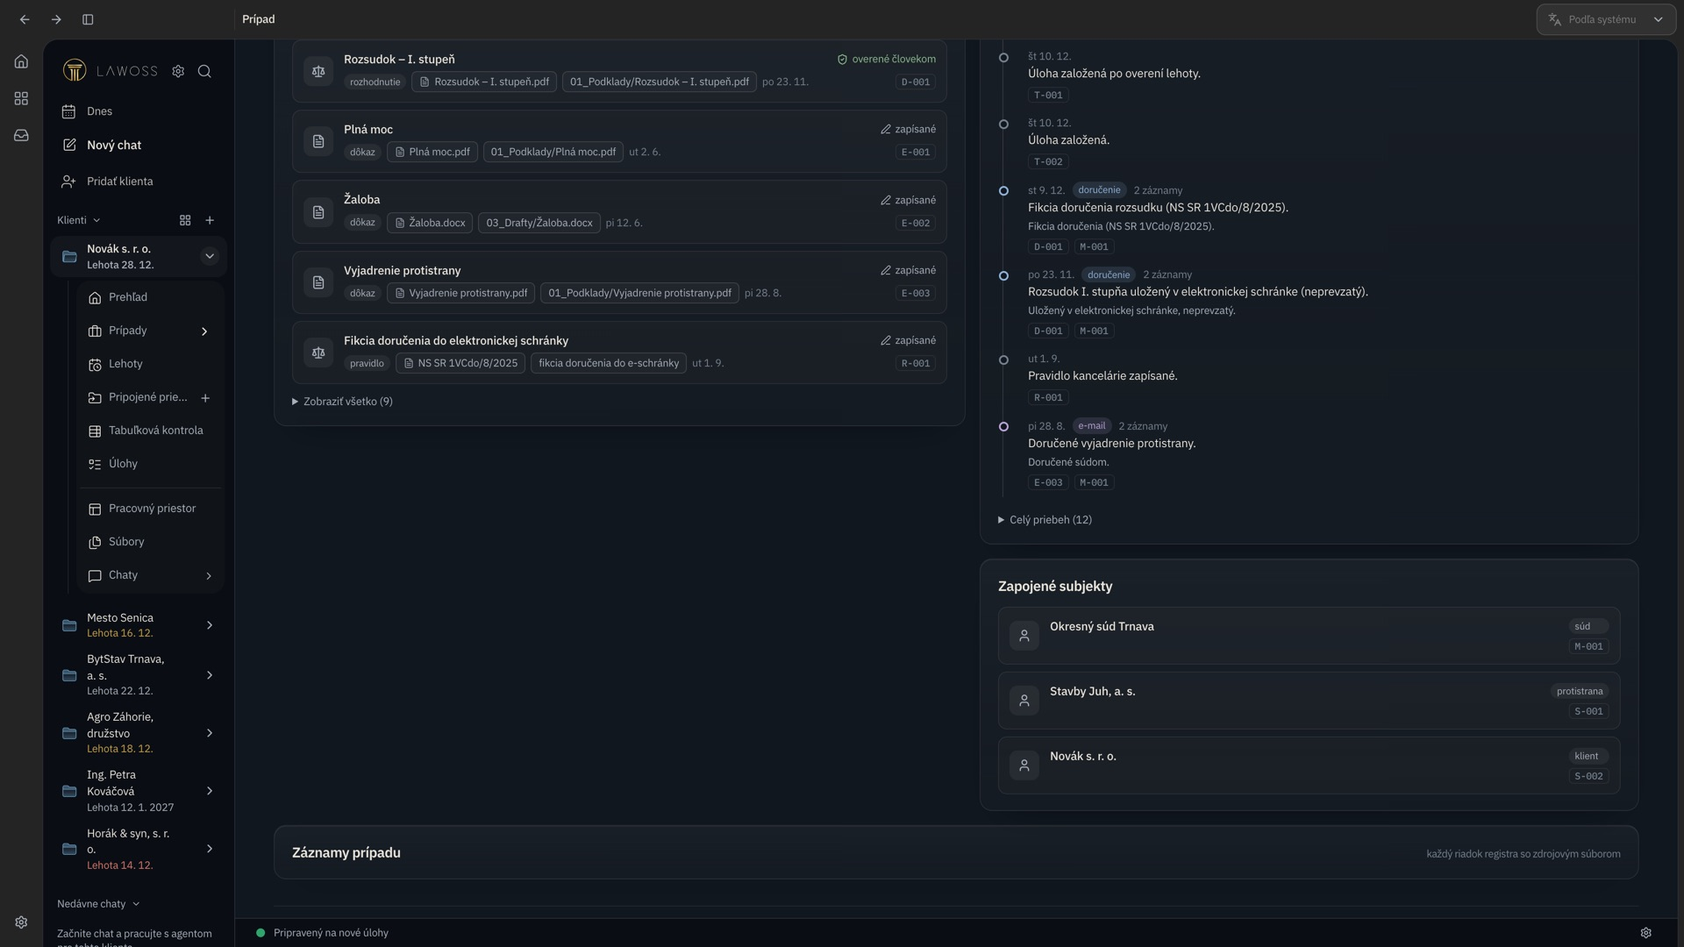
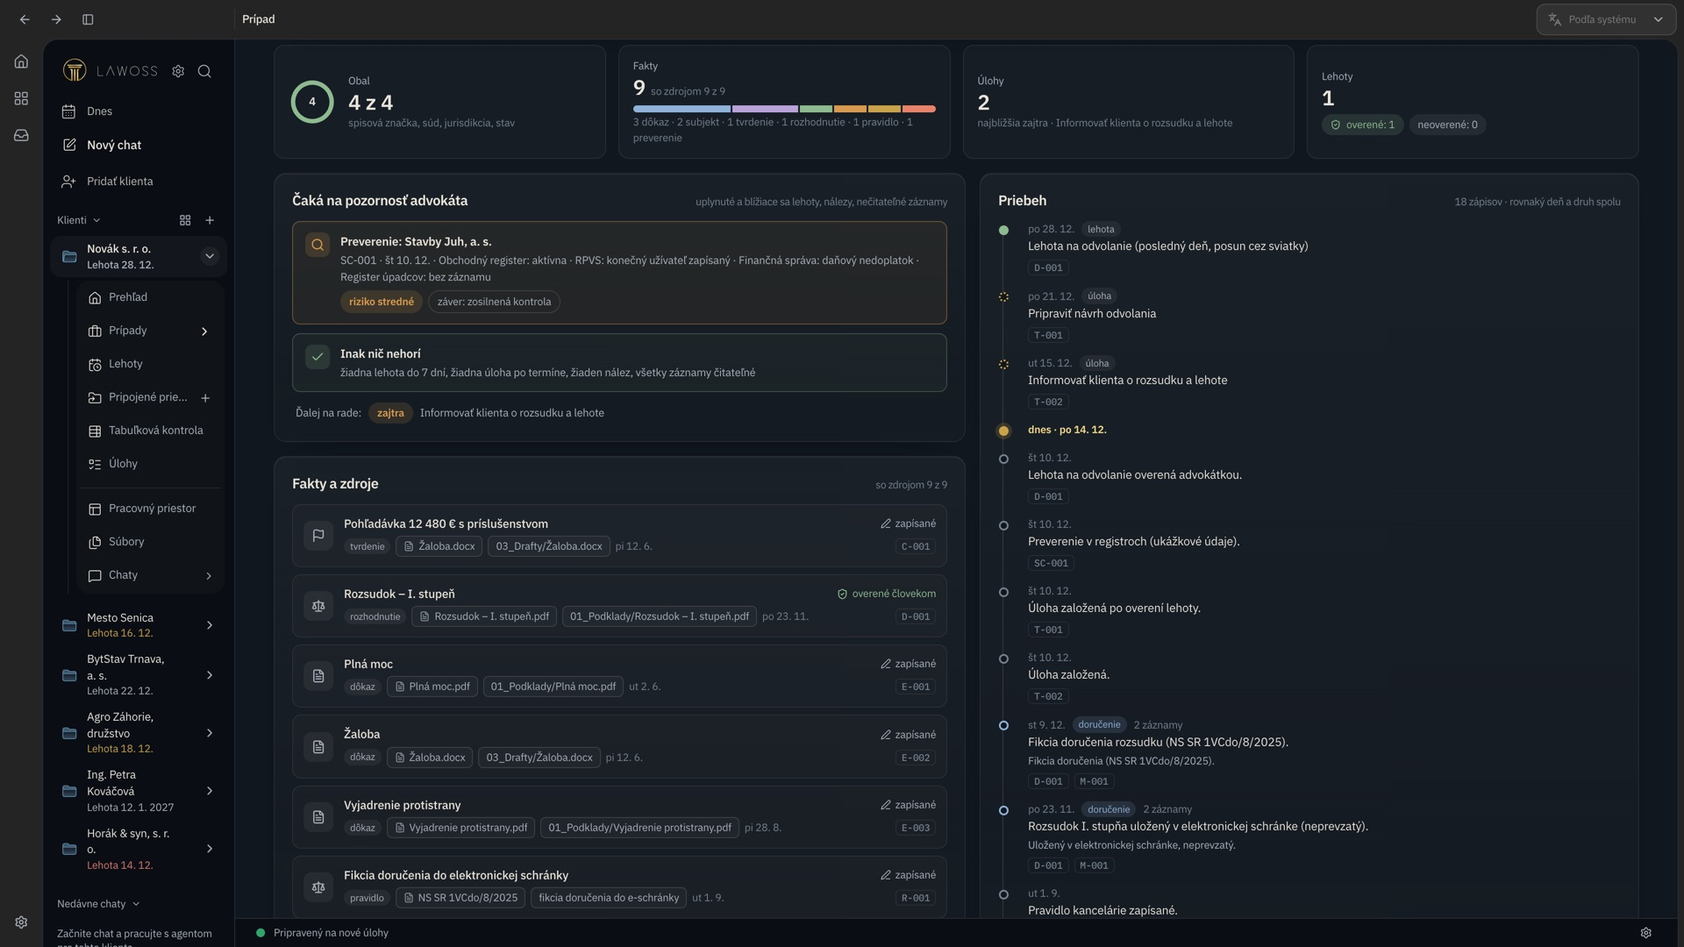
fix: poctivé stavy v Prehľade praxe a detaile prípadu
- Neplatný dátum lehoty alebo termínu úlohy je upozornenie aj stav karty,
  nikdy ticho nezmizne; lehota kancelárie nie je termín prípadu.
- Zelené „nič nehorí“ len pri úplnom čítaní (bez truncated, problémov
  a s úplným pokrytím); inak upozornenie na neúplné čítanie.
- Riadok lehoty v pozornosti a v registri ukazuje potvrdenie tejto
  lehoty, nie overenie celého záznamu.
- Lehota a preverenie zo zdieľaného súboru sú jedno upozornenie a jeden
  štítok v kalendári; upozornení najviac šesť, zvyšok odkazom do registra.
- Testy pre neplatný dátum, čiastočné čítanie, overenie pred úpravou
  záznamu a lehotu zdieľanú dvoma prípadmi; nové snímky.

diff --git a/apps/app/src/lawoss/domains/overview-model.ts b/apps/app/src/lawoss/domains/overview-model.ts
@@ -3,7 +3,7 @@
  * kalendár týždňov, upozornenia, karty prípadov a zoskupená história. Berú iba to, čo prečítal read-model;
  * nič nedopočítavajú (žiadne lehoty z predpisov, žiadne sviatky), víkend je len deň v týždni.
  */
-import { addDays, deadlineKey, deadlineTier, ISO_DAY, recordKey, taskDue, type MatterInput, type MatterOverview, type UpcomingDeadline } from "../../../../../lawoss/okf/read";
+import { addDays, deadlineKey, deadlineTier, ISO_DAY, isOfficeFile, recordKey, taskDue, type MatterInput, type MatterOverview, type UpcomingDeadline } from "../../../../../lawoss/okf/read";
 import { screeningNeedsAttention, screenings, type CockpitEvent, type CockpitScreening } from "../../../../../lawoss/okf/cockpit";
 import { buildMatterViews } from "../../../../../lawoss/okf/views";
 import { cardStatus, type CardStatus } from "../lite/client-cards";
@@ -70,25 +70,58 @@ export function practiceTasks(matters: readonly MatterOverview[], todayIso: stri
 
 type OverviewSource = { matters: readonly MatterOverview[]; inputs: readonly MatterInput[]; upcomingDeadlines: readonly UpcomingDeadline[]; overdue: readonly UpcomingDeadline[] };
 
+/** Lehota zo zdieľaného súboru (klient, kancelária) je jedna lehota, aj keď ju prehľad nesie pri každom prípade. */
+export function uniqueDeadlines(deadlines: readonly UpcomingDeadline[]): UpcomingDeadline[] {
+  const seen = new Set<string>();
+  return deadlines.filter((d) => {
+    const key = deadlineKey(d);
+    if (seen.has(key)) return false;
+    seen.add(key);
+    return true;
+  });
+}
+
 export type PracticeAlert =
   | { kind: "overdueDeadlines"; count: number }
   | { kind: "deadline"; deadline: UpcomingDeadline; client?: string }
+  /** Dátum lehoty alebo termín úlohy, ktorý nie je RRRR-MM-DD: nikdy sa ticho nezahodí, ide na overenie. */
+  | { kind: "invalidDate"; key: string; title: string; raw: string; task: boolean; matter: Pick<MatterOverview, "path" | "title">; client?: string }
   | { kind: "task"; task: PracticeTask; client?: string }
   | { kind: "screening"; screening: CockpitScreening; matter: Pick<MatterOverview, "path" | "title">; client?: string };
 
-/** Upozornenia praxe v poradí naliehavosti: lehoty po termíne, lehoty dnes a zajtra, úlohy po termíne, rizikové preverenia. */
+/**
+ * Upozornenia praxe v poradí naliehavosti: lehoty po termíne, lehoty dnes a zajtra, neplatné dátumy, úlohy po termíne,
+ * rizikové preverenia. Záznam zo zdieľaného súboru (klient, kancelária) je jedno upozornenie, nie jedno za prípad.
+ */
 export function practiceAlerts(data: OverviewSource, todayIso: string): PracticeAlert[] {
   const client = clientNames(data);
   const overdue = new Set(data.overdue.map(deadlineKey)).size;
-  const due = data.upcomingDeadlines.filter((d) => !d.invalid && deadlineTier(d.date, todayIso) === "today");
+  const deadlines = uniqueDeadlines(data.upcomingDeadlines);
+  const due = deadlines.filter((d) => !d.invalid && deadlineTier(d.date, todayIso) === "today");
+  const seenTasks = new Set<string>();
+  const invalid = [
+    ...deadlines.filter((d) => d.invalid).map((d) => ({ key: `d:${deadlineKey(d)}`, title: d.title, raw: d.raw ?? d.date, task: false, matter: { path: d.matter.path, title: d.matter.title } })),
+    ...data.matters.flatMap((m) => m.openTasks.filter((task) => task.invalid).flatMap((task) => {
+      const key = recordKey(m.path, task);
+      if (seenTasks.has(key)) return [];
+      seenTasks.add(key);
+      return [{ key: `t:${key}`, title: task.title, raw: task.due ?? "", task: true, matter: { path: m.path, title: m.title } }];
+    })),
+  ];
   const tasks = practiceTasks(data.matters, todayIso).filter((task) => task.overdue);
+  const seenScreenings = new Set<string>();
   const risky = data.matters.flatMap((m) => {
     const input = data.inputs.find((i) => i.path === m.path);
-    return input ? screenings(input).filter(screeningNeedsAttention).map((screening) => ({ screening, matter: { path: m.path, title: m.title } })) : [];
+    return input ? screenings(input).filter(screeningNeedsAttention).filter((screening) => {
+      if (seenScreenings.has(screening.file + screening.id)) return false;
+      seenScreenings.add(screening.file + screening.id);
+      return true;
+    }).map((screening) => ({ screening, matter: { path: m.path, title: m.title } })) : [];
   });
   return [
     ...(overdue > 0 ? [{ kind: "overdueDeadlines" as const, count: overdue }] : []),
     ...due.map((deadline) => ({ kind: "deadline" as const, deadline, ...named(client(deadline.matter.path)) })),
+    ...invalid.map((item) => ({ kind: "invalidDate" as const, ...item, ...named(client(item.matter.path)) })),
     ...tasks.map((task) => ({ kind: "task" as const, task, ...named(client(task.matter.path)) })),
     ...risky.map((item) => ({ kind: "screening" as const, ...item, ...named(client(item.matter.path)) })),
   ];
@@ -109,8 +142,10 @@ function clientNames(data: Pick<OverviewSource, "matters" | "inputs">): (path: s
 export type MatterCard = {
   matter: MatterOverview;
   client?: string;
-  /** Najbližšia lehota: najstaršia po termíne, inak najbližšia odo dneška. Neplatný dátum nie je termín. */
+  /** Najbližšia lehota: najstaršia po termíne, inak najbližšia odo dneška. Neplatný dátum ani lehota kancelárie nie je termín prípadu. */
   nearest?: MatterOverview["deadlines"][number];
+  /** Pôvodný text prvého neplatného dátumu lehoty alebo termínu úlohy prípadu (na overenie). */
+  invalid?: string;
   overdueTasks: number;
   /** Najnovšie preverenie, ktoré si pýta pozornosť. */
   screening?: CockpitScreening;
@@ -122,13 +157,16 @@ export function matterCards(data: Pick<OverviewSource, "matters" | "inputs">, to
   const client = clientNames(data);
   const cards = data.matters.map((matter): MatterCard => {
     const input = data.inputs.find((i) => i.path === matter.path);
-    const valid = matter.deadlines.filter((d) => !d.invalid);
+    const own = matter.deadlines.filter((d) => !isOfficeFile(d.file));
+    const valid = own.filter((d) => !d.invalid);
     const nearest = valid.find((d) => d.date < todayIso) ?? valid.find((d) => d.date >= todayIso);
+    const badDeadline = own.find((d) => d.invalid);
+    const invalid = badDeadline ? badDeadline.raw ?? badDeadline.date : matter.openTasks.find((task) => task.invalid)?.due;
     const screening = input ? screenings(input).find(screeningNeedsAttention) : undefined;
     const overdueTasks = matter.openTasks.filter((task) => { const day = taskDue(task.due).day; return day !== undefined && day < todayIso; }).length;
     const name = client(matter.path);
     return { matter, overdueTasks, status: input ? cardStatus(buildMatterViews(input, todayIso)) : {},
-      ...(name ? { client: name } : {}), ...(nearest ? { nearest } : {}), ...(screening ? { screening } : {}) };
+      ...(name ? { client: name } : {}), ...(nearest ? { nearest } : {}), ...(invalid !== undefined ? { invalid } : {}), ...(screening ? { screening } : {}) };
   });
   return cards.sort((a, b) => {
     const x = a.nearest?.date, y = b.nearest?.date;

diff --git a/apps/app/src/lawoss/domains/prehlad/prehlad-page.tsx b/apps/app/src/lawoss/domains/prehlad/prehlad-page.tsx
@@ -14,13 +14,15 @@ import {
 import { matterLink } from "../spis/spis-page";
 import { daysBetween, recordKey, type UpcomingDeadline } from "../../../../../../lawoss/okf/read";
 import { clientInitials } from "../../lite/client-cards";
-import { deadlineTone, matterCards, practiceAlerts, practiceTasks, weekDays, type MatterCard, type PracticeAlert, type PracticeTask } from "../overview-model";
+import { deadlineTone, matterCards, practiceAlerts, practiceTasks, uniqueDeadlines, weekDays, type MatterCard, type PracticeAlert, type PracticeTask } from "../overview-model";
 import { AlertBox, CalendarGrid, conclusionText, DayCount, DayItems, riskText, Trust, type MatterText } from "../overview-views";
 import "../overview.css";
 
 /** Kalendár praxe: tri týždne od pondelka; v dni najviac tri položky, zvyšok „+N ďalšie“. */
 const CALENDAR_WEEKS = 3;
 const DAY_ITEMS = 3;
+/** Upozornení najviac šesť; zvyšok odkazom do registra lehôt. */
+const ALERTS_SHOWN = 6;
 
 /** Iba skutočné údaje zo spisov; chýbajúce údaje nenahrádza ukážka. */
 export function PrehladPage() {
@@ -43,6 +45,8 @@ export function RealOverview({ data }: { data: OkfReadResult }) {
   const cards = matterCards(data, now);
   const tasks = practiceTasks(data.matters, now);
   const nextUp = data.upcomingDeadlines.find((d) => !d.invalid);
+  // „Nič nehorí“ len pri úplnom čerstvom čítaní; čiastočné čítanie nie je istota.
+  const known = !data.truncated && data.problems.length === 0 && (data.coverage?.status ?? "complete") === "complete";
 
   return (
     <div className="lw-x lw-po">
@@ -62,7 +66,11 @@ export function RealOverview({ data }: { data: OkfReadResult }) {
 
       <section className="lw-x-section" aria-label={text("alertsTitle")} data-lawoss-practice-alerts={alerts.length}>
         <div className="lw-x-alerts">
-          {alerts.length > 0 ? alerts.map((alert) => <PracticeAlertView key={alertKey(alert)} alert={alert} now={now} locale={locale} text={text} />) : <>
+          {alerts.slice(0, ALERTS_SHOWN).map((alert) => <PracticeAlertView key={alertKey(alert)} alert={alert} now={now} locale={locale} text={text} />)}
+          {alerts.length > ALERTS_SHOWN ? <Link to="/lehoty" className="lw-x-alert" data-tone="red" data-lawoss-alert="more">
+            <AlertInner icon="clock" title={text("alert.more", { count: alerts.length - ALERTS_SHOWN })} detail={text("checkRegister")} />
+          </Link> : null}
+          {alerts.length > 0 ? null : !known ? <AlertBox tone="amber" icon="task" title={text("partialRead")} data-lawoss-practice-partial="" /> : <>
             <AlertBox tone="ok" icon="ok" title={text("alert.clearTitle")} detail={text("alert.clearPractice")} data-lawoss-practice-clear="" />
             {nextUp ? <Link className="lw-x-alert" data-tone="ok" to="/lehoty" data-lawoss-next-up="">
               <AlertInner icon="clock" title={`${text("nextUp")}: ${deadlineText(nextUp)}`}
@@ -74,7 +82,7 @@ export function RealOverview({ data }: { data: OkfReadResult }) {
 
       <section className="lw-x-panel lw-x-section" aria-labelledby="lw-po-calendar">
         <h2 id="lw-po-calendar" className="lw-x-h2">{text("calendarTitle")}<small>{text("calendarNote")} · <Link to="/lehoty">{text("fullRegister")}</Link></small></h2>
-        <PracticeCalendar deadlines={[...data.overdue, ...data.upcomingDeadlines]} tasks={tasks} now={now} locale={locale} text={text} />
+        <PracticeCalendar deadlines={uniqueDeadlines([...data.overdue, ...data.upcomingDeadlines])} tasks={tasks} now={now} locale={locale} text={text} />
         <Legend text={text} keys={["hot", "soon", "later", "confirmed", "task", "weekend"]} />
       </section>
 
@@ -108,6 +116,7 @@ type Locale = ReturnType<typeof useMatterText>["locale"];
 
 const alertKey = (alert: PracticeAlert): string => alert.kind === "overdueDeadlines" ? "overdue"
   : alert.kind === "deadline" ? `d:${alert.deadline.matter.path}/${alert.deadline.recordId}/${alert.deadline.raw ?? alert.deadline.date}`
+  : alert.kind === "invalidDate" ? `i:${alert.key}`
   : alert.kind === "task" ? `t:${alert.task.key}` : `s:${alert.matter.path}/${alert.screening.id}`;
 
 function PracticeAlertView({ alert, now, locale, text }: { alert: PracticeAlert; now: string; locale: Locale; text: Text }) {
@@ -125,6 +134,11 @@ function PracticeAlertView({ alert, now, locale, text }: { alert: PracticeAlert;
           detail={<>{where(d.matter.title, alert.client)}{d.matter.matterRef ? ` · ${d.matter.matterRef}` : ""} · <Trust confirmed={Boolean(d.confirmed)} locale={locale} text={text} /></>} />
       </Link>;
     }
+    case "invalidDate":
+      return <Link to={matterLink(alert.matter.path)} className="lw-x-alert" data-tone="amber" data-lawoss-alert="invalid">
+        <AlertInner icon="task" title={text("alert.invalidDate", { title: alert.title })}
+          detail={`${where(alert.matter.title, alert.client)} · ${text(alert.task ? "legend.task" : "kind.deadline")}: „${alert.raw}“`} />
+      </Link>;
     case "task":
       return <Link to={matterLink(alert.task.matter.path)} className="lw-x-alert" data-tone="red" data-lawoss-alert="task">
         <AlertInner icon="task" title={text("alert.taskOverdue", { date: formatDay(alert.task.due, locale), title: alert.task.title })}
@@ -183,7 +197,7 @@ export function Legend({ text, keys }: { text: Text; keys: readonly LegendKey[] 
 function MatterCardView({ card, now, locale, text }: { card: MatterCard; now: string; locale: Locale; text: Text }) {
   const { matter, nearest, status, screening, client } = card;
   const tone = nearest ? deadlineTone(nearest.date, now) : undefined;
-  const urgent = card.overdueTasks > 0 || tone === "overdue" || tone === "hot";
+  const urgent = card.overdueTasks > 0 || tone === "overdue" || tone === "hot" || card.invalid !== undefined;
   const who = client ?? matter.title;
   const meta = [matter.matterRef, matter.court].filter(Boolean).join(" · ");
   return <Link to={matterLink(matter.path)} className="lw-x-panel lw-po-card" data-urgent={urgent || undefined} data-lawoss-matter-card={matter.path}>
@@ -198,7 +212,8 @@ function MatterCardView({ card, now, locale, text }: { card: MatterCard; now: st
           <b title={deadlineText(nearest)}>{deadlineText(nearest)}</b>
           <span>{formatDay(nearest.date, locale)}<Trust confirmed={Boolean(nearest.confirmed)} locale={locale} text={text} /></span>
         </span>
-      </> : <span className="lw-po-term-text"><b>{text("noDeadline")}</b></span>}
+      </> : card.invalid !== undefined ? <span className="lw-po-term-text" data-lawoss-card-invalid=""><b>? {card.invalid}</b><span><span className="lw-x-pill" data-tone="amber">{text("invalidDate")}</span></span></span>
+        : <span className="lw-po-term-text"><b>{text("noDeadline")}</b></span>}
     </span>
     {status.phase ? <span className="lw-po-phase" title={status.phase}>{status.phase}</span> : null}
     {status.nextStep ? <span className="lw-po-next"><ArrowRight aria-hidden size={13} />{status.nextStep}</span> : null}

diff --git a/apps/app/tests/lawoss-overview-visual.test.tsx b/apps/app/tests/lawoss-overview-visual.test.tsx
@@ -142,3 +142,59 @@ describe("overview and case views", () => {
     expect(html).toContain("Up next");
   });
 });
+
+describe("honest states", () => {
+  test("an invalid deadline date and task due become a visible alert and card state, never silently dropped", () => {
+    const data = fixture();
+    data.inputs[1]!.records.push(rec({ id: "D-002", type: "decision", title: "Uznesenie", deadlines: ["do pätnástich dní"], sources: [{ id: "u", title: "Uznesenie.pdf" }] }));
+    const overview = { ...buildOverview(data.inputs, TODAY), inputs: data.inputs, problems: [], truncated: false };
+    const alerts = practiceAlerts(overview, TODAY);
+    expect(alerts.filter((a) => a.kind === "invalidDate").map((a) => a.kind === "invalidDate" ? a.raw : "")).toEqual(["do pätnástich dní"]);
+    const noDeadline = { ...horak, path: "Klienti/Horak/Spisy/C", records: [rec({ id: "T-009", type: "task", title: "Zistiť termín", state: "pending", due: "budúci týždeň" })] };
+    const inputs = [structuredClone(noDeadline)];
+    const cards = matterCards({ ...buildOverview(inputs, TODAY), inputs }, TODAY);
+    expect(cards[0]?.invalid).toBe("budúci týždeň");
+    const html = renderToStaticMarkup(<MemoryRouter><RealOverview data={{ ...buildOverview(inputs, TODAY), inputs, problems: [], truncated: false }} /></MemoryRouter>);
+    expect(html).toContain('data-lawoss-alert="invalid"');
+    expect(html).toContain('data-lawoss-card-invalid=""');
+  });
+
+  test("a truncated or partial read never shows the green all-clear", () => {
+    const quiet: MatterInput = { path: "Klienti/Q/Spisy/Q", clientTitle: "Q", scopePaths: ["Klienti/Q/Spisy/Q", "Klienti/Q"], records: [rec({ id: "M-001", type: "matter", title: "Pokojný prípad" })] };
+    const inputs = [quiet];
+    const full = renderToStaticMarkup(<MemoryRouter><RealOverview data={{ ...buildOverview(inputs, TODAY), inputs, problems: [], truncated: false }} /></MemoryRouter>);
+    expect(full).toContain('data-lawoss-practice-clear=""');
+    const truncated = renderToStaticMarkup(<MemoryRouter><RealOverview data={{ ...buildOverview(inputs, TODAY), inputs, problems: [], truncated: true }} /></MemoryRouter>);
+    expect(truncated).not.toContain('data-lawoss-practice-clear=""');
+    expect(truncated).toContain('data-lawoss-practice-partial=""');
+    const partial = renderToStaticMarkup(<MemoryRouter><RealOverview data={{ ...buildOverview(inputs, TODAY), inputs, problems: [{ path: "Klienti/Q/Spisy/Q/memory/X.md", message: "zlý záznam" }], truncated: false }} /></MemoryRouter>);
+    expect(partial).not.toContain('data-lawoss-practice-clear=""');
+  });
+
+  test("a verification made before the record changed confirms nothing, in the hero and in the attention row alike", () => {
+    const data = fixture();
+    const decision = data.inputs[0]!.records.find((r) => r.id === "D-001")!;
+    decision.deadlines = [`${day(3)} Lehota na odvolanie`];
+    decision.verified = [{ type: "human", by: "JUDr. Testovacia", at: `${day(-10)}T09:00:00Z`, deadline: `${day(3)} Lehota na odvolanie`, truth: "Syntetické." }];
+    const overview = { ...buildOverview(data.inputs, TODAY), inputs: data.inputs, problems: [], truncated: false };
+    expect(overview.upcomingDeadlines.find((d) => d.recordId === "D-001" && d.matter.path === novak.path)?.confirmed).toBeUndefined();
+    const cockpit = buildCockpit(overview, novak.path, TODAY);
+    if (!cockpit) throw new Error("cockpit missing");
+    const html = renderToStaticMarkup(<MatterCockpit cockpit={cockpit} now={TODAY} raw={{}} />);
+    const row = html.slice(html.indexOf('data-lawoss-attention-row="lehota:D-001'), html.indexOf("</div>", html.indexOf('data-lawoss-attention-row="lehota:D-001')));
+    expect(row).toContain("recorded, not verified");
+    expect(row).not.toContain("verified by a person");
+    expect(html).not.toContain("confirmed by JUDr. Testovacia");
+  });
+
+  test("a client-level deadline shared by two cases is one alert and one calendar chip", () => {
+    const shared = rec({ id: "D-050", type: "decision", title: "Klientska lehota", deadlines: [`${TODAY} Spoločná lehota`], sources: [{ id: "k", title: "Klient.pdf" }] });
+    const make = (name: string): MatterInput => ({ path: `Klienti/K/Spisy/${name}`, clientTitle: "K", scopePaths: [`Klienti/K/Spisy/${name}`, "Klienti/K"],
+      records: [structuredClone(shared)], recordFiles: { "D-050": "Klienti/K/memory/D-050.md" } });
+    const inputs = [make("A"), make("B")];
+    const overview = { ...buildOverview(inputs, TODAY), inputs, problems: [], truncated: false };
+    expect(practiceAlerts(overview, TODAY).filter((a) => a.kind === "deadline")).toHaveLength(1);
+    const html = renderToStaticMarkup(<MemoryRouter><RealOverview data={overview} /></MemoryRouter>);
+    expect(html.split('data-kind="deadline"').length - 1).toBe(1);
+  });
+});

diff --git a/apps/app/src/lawoss/domains/spis/spis-page.tsx b/apps/app/src/lawoss/domains/spis/spis-page.tsx
@@ -509,6 +509,9 @@ function AttentionLine({ row, cockpit, now }: { row: AttentionRow; cockpit: Cock
   const { locale, text } = useMatterText();
   const copy = attentionCopy(row, cockpit, text);
   const red = row.state === "po termíne" || row.state === "neparsovateľné";
+  // Pri lehote rozhoduje potvrdenie tejto lehoty, nie overenie celého záznamu (to isté pravidlo ako prehľad).
+  const deadline = row.kind === "lehota" ? [...cockpit.deadlines.confirmed, ...cockpit.deadlines.candidates].find((d) => `lehota:${d.recordId}:${d.date}` === row.id) : undefined;
+  const trust = deadline ? text(deadline.confirmed ? "provenance.verified" : "trust.recorded") : row.provenance ? cockpitLabel(row.provenance, text) : "";
   return (
     <div className="lw-x-alert" data-tone={red ? "red" : "amber"} data-lawoss-attention-row={row.id}>
       <span className="lw-x-alert-icon">{row.kind === "lehota" || row.kind === "úloha" ? <Clock aria-hidden size={16} /> : <AlertTriangle aria-hidden size={16} />}</span>
@@ -516,7 +519,7 @@ function AttentionLine({ row, cockpit, now }: { row: AttentionRow; cockpit: Cock
         <b>{copy.title}</b>
         <span>
           {copy.detail}
-          {row.provenance ? ` · ${cockpitLabel(row.provenance, text)}` : ""}
+          {trust ? ` · ${trust}` : ""}
           {row.scope ? ` · ${t(`lawoss.lite.scope_${row.scope}`, locale)}` : ""}
         </span>
         <span className="lw-x-alert-tags">
@@ -619,7 +622,7 @@ function DeadlineGroup({ title, rows, now, empty }: { title: string; rows: reado
             </small>
           </span>
           <span className="lw-ref">{d.recordId}</span>
-          <span className={`lw-st${d.overdue ? " warn" : ""}`}>{d.overdue ? text("overdue") : cockpitLabel(d.provenance, text)}</span>
+          <span className={`lw-st${d.overdue ? " warn" : ""}`}>{d.overdue ? text("overdue") : text(d.confirmed ? "provenance.verified" : "trust.recorded")}</span>
         </div>
       ))}
     </>

diff --git a/apps/app/src/lawoss/i18n/matters.ts b/apps/app/src/lawoss/i18n/matters.ts
@@ -231,6 +231,8 @@ export const mattersEn = {
   "lawoss.matters.breadcrumbMatters": "Cases",
   "lawoss.matters.caseDetailsTitle": "Case records",
   "lawoss.matters.caseDetailsNote": "every register line with its source file",
+  "lawoss.matters.alert.invalidDate": "Invalid date to check: {title}",
+  "lawoss.matters.invalidDate": "invalid date to check",
 };
 
 export const mattersCs: Record<keyof typeof mattersEn, string> = {
@@ -465,6 +467,8 @@ export const mattersCs: Record<keyof typeof mattersEn, string> = {
   "lawoss.matters.breadcrumbMatters": "Případy",
   "lawoss.matters.caseDetailsTitle": "Záznamy případu",
   "lawoss.matters.caseDetailsNote": "každý řádek registru se zdrojovým souborem",
+  "lawoss.matters.alert.invalidDate": "Neplatné datum k ověření: {title}",
+  "lawoss.matters.invalidDate": "neplatné datum k ověření",
 };
 
 export const mattersSk: Record<keyof typeof mattersEn, string> = {
@@ -699,6 +703,8 @@ export const mattersSk: Record<keyof typeof mattersEn, string> = {
   "lawoss.matters.breadcrumbMatters": "Prípady",
   "lawoss.matters.caseDetailsTitle": "Záznamy prípadu",
   "lawoss.matters.caseDetailsNote": "každý riadok registra so zdrojovým súborom",
+  "lawoss.matters.alert.invalidDate": "Neplatný dátum na overenie: {title}",
+  "lawoss.matters.invalidDate": "neplatný dátum na overenie",
 };
 
 export const mattersDe: Record<keyof typeof mattersEn, string> = {
@@ -933,6 +939,8 @@ export const mattersDe: Record<keyof typeof mattersEn, string> = {
   "lawoss.matters.breadcrumbMatters": "Fälle",
   "lawoss.matters.caseDetailsTitle": "Falleinträge",
   "lawoss.matters.caseDetailsNote": "jede Registerzeile mit Quelldatei",
+  "lawoss.matters.alert.invalidDate": "Ungültiges Datum prüfen: {title}",
+  "lawoss.matters.invalidDate": "ungültiges Datum prüfen",
 };
 
 export type MatterTextKey = keyof typeof mattersEn extends `lawoss.matters.${infer Key}` ? Key : never;
